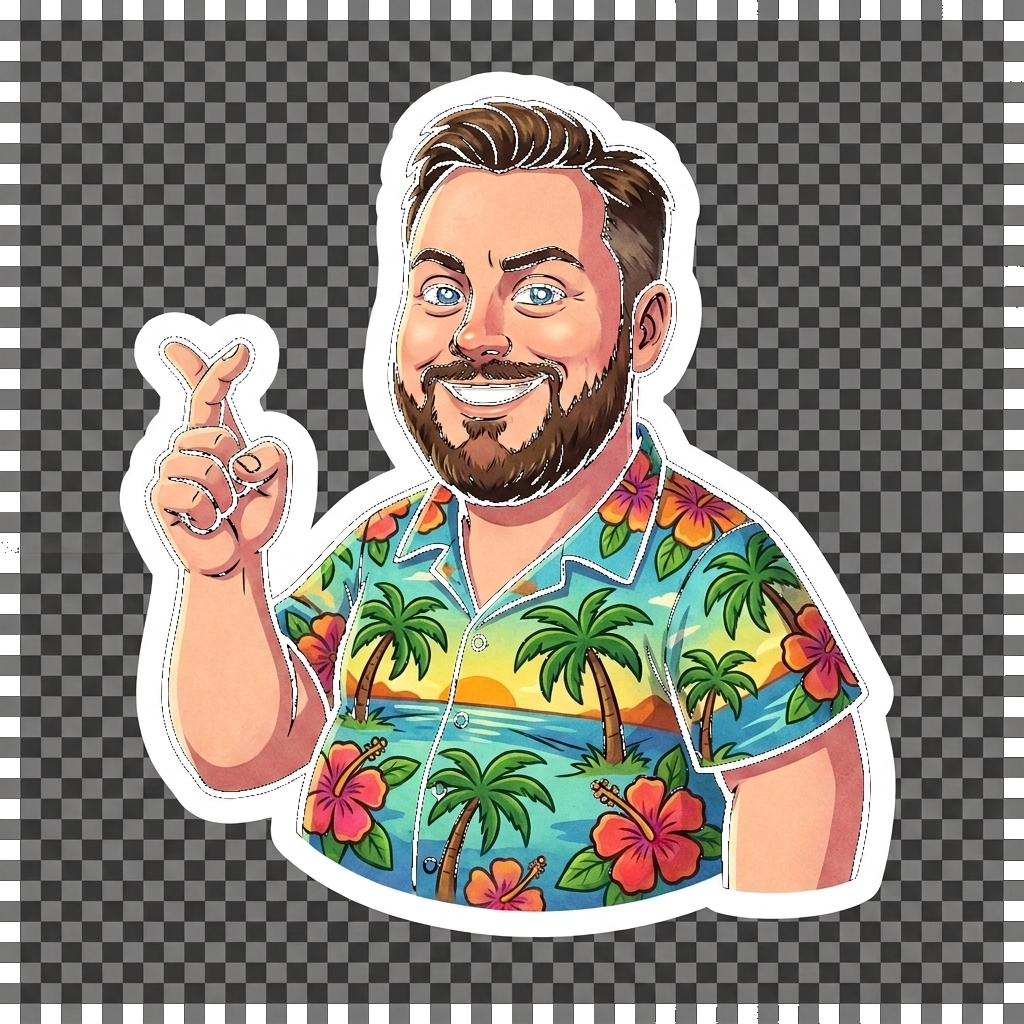
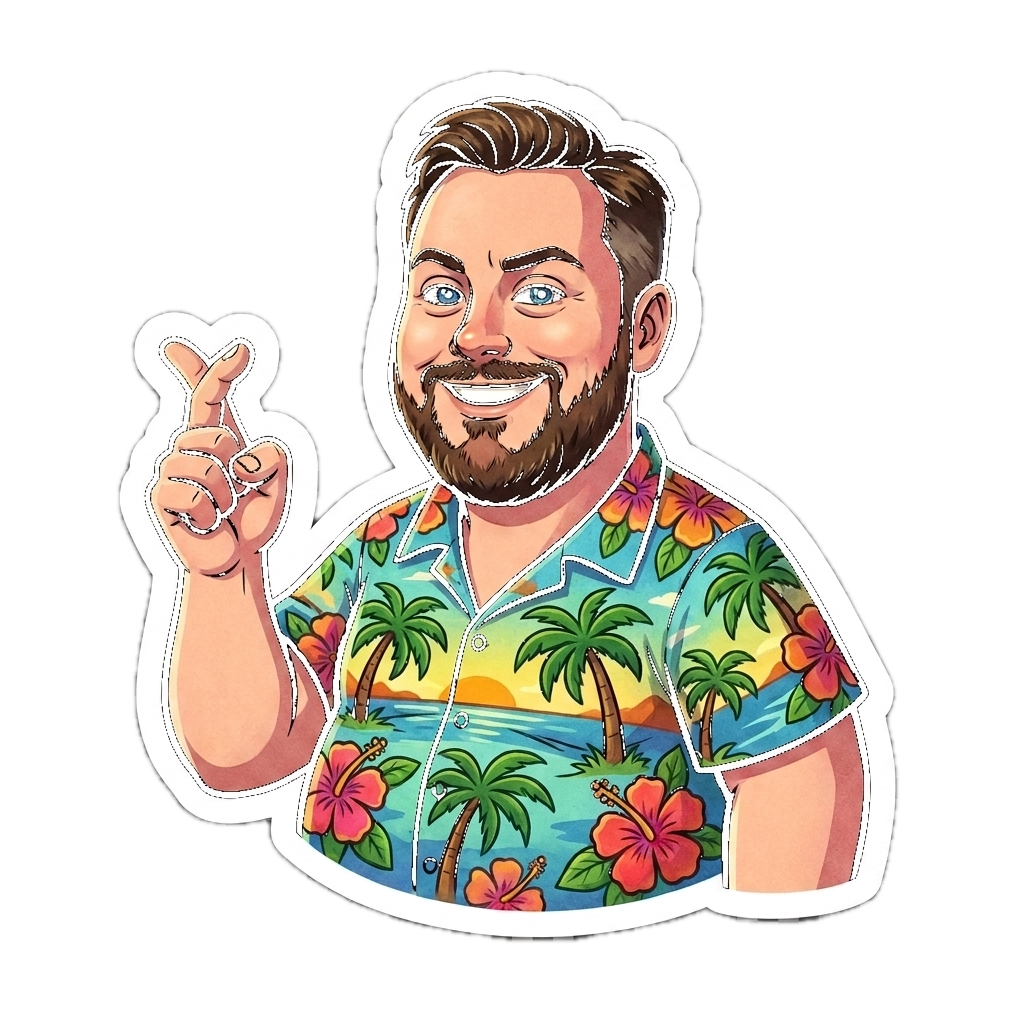
fix: immediate devin trigger, true alpha mask, verified male voice

diff --git a/Sources/blurpy/Popup.swift b/Sources/blurpy/Popup.swift
@@ -1,9 +1,10 @@
 import Cocoa
+import AVFoundation
 
 /// Borderless, transparent, always-on-top Clippy-style popup: character floating
 /// on the desktop with a comic speech bubble, center screen. Springs up from below
 /// with overshoot, animates (two-frame finger wag for nedry, rock otherwise),
-/// SPEAKS the message in Eddy's male voice, slides back down on dismiss.
+/// SPEAKS the message in Fred's verified male voice, slides back down on dismiss.
 /// One at a time; extras queue (cap 3).
 @MainActor
 final class Popup {
@@ -11,11 +12,8 @@ final class Popup {
     private var queue: [(frames: [NSImage?], text: String)] = []
     private var dismissTimer: Timer?
     private var swapTimer: Timer?
-    private let speaker: NSSpeechSynthesizer = {
-        let s = NSSpeechSynthesizer()
-        s.setVoice(NSSpeechSynthesizer.VoiceName(rawValue: "com.apple.eloquence.en-US.Eddy"))
-        return s
-    }()
+    private let speaker = AVSpeechSynthesizer()
+    private let maleVoice = AVSpeechSynthesisVoice(identifier: "com.apple.speech.synthesis.voice.Fred")
 
     func show(_ pitch: Pitch) {
         let imageName = pitch.cowboy ? "blurpy-cowboy" : "blurpy"
@@ -134,8 +132,7 @@ final class Popup {
         slide(panel, toY: final.y, duration: 0.5, ease: backOutEasing) { [weak panel] in
             if let panel { print("[blurpy] settled at \(panel.frame)") }
         }
-        speaker.stopSpeaking()
-        speaker.startSpeaking(text)
+        speak(text)
         dismissTimer = Timer.scheduledTimer(withTimeInterval: 25, repeats: false) { [weak self] _ in
             Task { @MainActor in self?.dismiss() }
         }
@@ -144,7 +141,7 @@ final class Popup {
     private func dismiss() {
         dismissTimer?.invalidate()
         swapTimer?.invalidate()
-        speaker.stopSpeaking()
+        speaker.stopSpeaking(at: .immediate)
         guard let panel, let screen = (NSScreen.main ?? NSScreen.screens.first)?.visibleFrame else { return }
         slide(panel, toY: screen.minY - panel.frame.height, duration: 0.3, ease: easeInCubic) { [weak self] in
             panel.close()
@@ -153,6 +150,39 @@ final class Popup {
                 self?.queue.removeFirst()
                 self?.present(frames: next.frames, text: next.text)
             }
+        }
+    }
+
+    private func speak(_ text: String) {
+        speaker.stopSpeaking(at: .immediate)
+        let voice = maleVoice ?? AVSpeechSynthesisVoice.speechVoices().first { $0.language.hasPrefix("en") && $0.gender == .male }
+        print("[blurpy] voice: \(voice?.name ?? "none"), gender: \(voice?.gender == .male ? "male" : "unknown")")
+
+        let prefix = text.range(of: #"^ah\s+ah\s+ah[.!?,]*\s*"#, options: [.regularExpression, .caseInsensitive])
+        if let prefix {
+            for _ in 0..<3 {
+                let ah = AVSpeechUtterance(string: "Ah.")
+                ah.voice = voice
+                ah.rate = 0.30
+                ah.pitchMultiplier = 0.82
+                ah.postUtteranceDelay = 0.22
+                speaker.speak(ah)
+            }
+            let rest = String(text[prefix.upperBound...]).trimmingCharacters(in: .whitespacesAndNewlines)
+            if !rest.isEmpty {
+                let body = AVSpeechUtterance(string: rest)
+                body.voice = voice
+                body.rate = 0.40
+                body.pitchMultiplier = 0.90
+                body.preUtteranceDelay = 0.28
+                speaker.speak(body)
+            }
+        } else {
+            let utterance = AVSpeechUtterance(string: text)
+            utterance.voice = voice
+            utterance.rate = 0.40
+            utterance.pitchMultiplier = 0.90
+            speaker.speak(utterance)
         }
     }
 

diff --git a/Sources/blurpy/Watcher.swift b/Sources/blurpy/Watcher.swift
@@ -20,6 +20,12 @@ enum Tail {
         return best?.path
     }
 
+    static func size(path: String) -> UInt64 {
+        guard let fh = FileHandle(forReadingAtPath: path), let size = try? fh.seekToEnd() else { return 0 }
+        try? fh.close()
+        return size
+    }
+
     /// Read new bytes since `offset`, capped at `cap` bytes (taken from the tail of the gap).
     /// Returns the text and the new offset.
     static func readNew(path: String, offset: UInt64, cap: Int = 8192) -> (text: String, newOffset: UInt64) {
@@ -47,6 +53,7 @@ final class Watcher {
     ]
 
     var onFlush: ((String, String) -> Void)?
+    var onDevin: (() -> Void)?
 
     private var offsets: [String: UInt64] = [:]   // file path -> offset
     private var active: [String: String] = [:]    // harness -> file path
@@ -59,10 +66,18 @@ final class Watcher {
     private let minChars = 200
 
     func start() {
+        // Start at EOF so old transcript history cannot retrigger on launch.
+        for s in sources {
+            if let newest = Tail.newestJSONL(in: s.root) {
+                active[s.harness] = newest
+                offsets[newest] = Tail.size(path: newest)
+                print("[blurpy] \(s.harness) active file: \(URL(fileURLWithPath: newest).lastPathComponent)")
+            }
+            print("[blurpy] watching \(s.harness): ~/\(s.root)")
+        }
         timer = Timer.scheduledTimer(withTimeInterval: pollSeconds, repeats: true) { [weak self] _ in
             Task { @MainActor in self?.tick() }
         }
-        for s in sources { print("[blurpy] watching \(s.harness): ~/\(s.root)") }
     }
 
     func tick() {
@@ -76,6 +91,10 @@ final class Watcher {
             let r = Tail.readNew(path: newest, offset: offsets[newest] ?? 0)
             offsets[newest] = r.newOffset
             if !r.text.isEmpty {
+                if Nedry.matches(r.text) {
+                    print("[blurpy] devin detected in \(s.harness)")
+                    onDevin?()
+                }
                 pending[s.harness, default: ""] += r.text
                 lastAppend[s.harness] = Date()
             }

diff --git a/Tests/blurpyTests/blurpyTests.swift b/Tests/blurpyTests/blurpyTests.swift
@@ -1,4 +1,5 @@
 import XCTest
+import AVFoundation
 @testable import blurpy
 
 final class blurpyTests: XCTestCase {
@@ -30,6 +31,11 @@ final class blurpyTests: XCTestCase {
         let first = Tail.readNew(path: f, offset: 0)
         let second = Tail.readNew(path: f, offset: first.newOffset)
         XCTAssertEqual(second.text, "")
+    }
+
+    func testStartingAtEOFSkipsHistory() throws {
+        let f = try tmpFile(contents: "old devin mention")
+        XCTAssertEqual(Tail.readNew(path: f, offset: Tail.size(path: f)).text, "")
     }
 
     // MARK: - Classifier.parse
@@ -67,6 +73,13 @@ final class blurpyTests: XCTestCase {
     func testNedryIgnoresNonDevin() {
         XCTAssertFalse(Nedry.matches("totally unrelated transcript chunk"))
         XCTAssertFalse(Nedry.matches("kevin fixed the build"))
+    }
+
+    // MARK: - Voice
+
+    func testFredIsInstalledMaleVoice() {
+        let voice = AVSpeechSynthesisVoice(identifier: "com.apple.speech.synthesis.voice.Fred")
+        XCTAssertEqual(voice?.gender, .male)
     }
 
     // MARK: - helpers

diff --git a/Sources/blurpy/main.swift b/Sources/blurpy/main.swift
@@ -26,13 +26,12 @@ final class AppDelegate: NSObject, NSApplicationDelegate {
             NSApp.terminate(nil)
             return
         }
+        watcher.onDevin = { [weak self] in
+            self?.popup.showNedry(Nedry.caption())
+        }
         watcher.onFlush = { [weak self] harness, chunk in
             Task { @MainActor in
                 guard let self else { return }
-                if Nedry.matches(chunk) {
-                    self.popup.showNedry(Nedry.caption())
-                    return
-                }
                 let pitch: Pitch?
                 switch brain {
                 case .api(let key):
